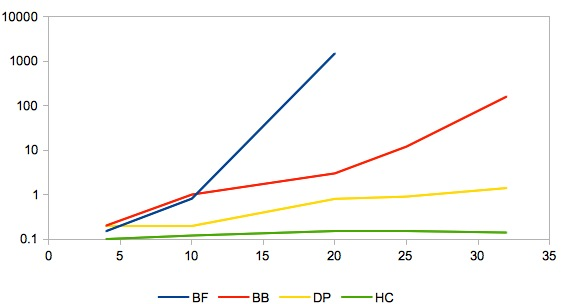
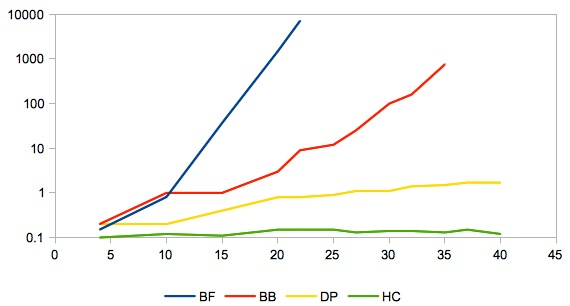
modified:   README.md 	modified:   instance.jpg

diff --git a/4/README.md b/4/README.md
@@ -81,7 +81,11 @@ And here we are summarizing all results in one plot.
 
 ![Instance](https://raw.github.com/platomik/mie-paa/master/4/instance.jpg)
 
-We are forced to use logarithmic scale because Brute force algorithm has exp growing form.
+We are forced to use logarithmic scale because Brute force algorithm has an exponential growing form.
+
+Since Heuristic is not an exact algorithm we should estimate its solution quality:
+
+![Instance2](https://raw.github.com/platomik/mie-paa/master/4/instance2.jpg)
 
 Instance size (BB DP BF) (Heur)
 Maximum cost (BB DP) (Heur) J Z
